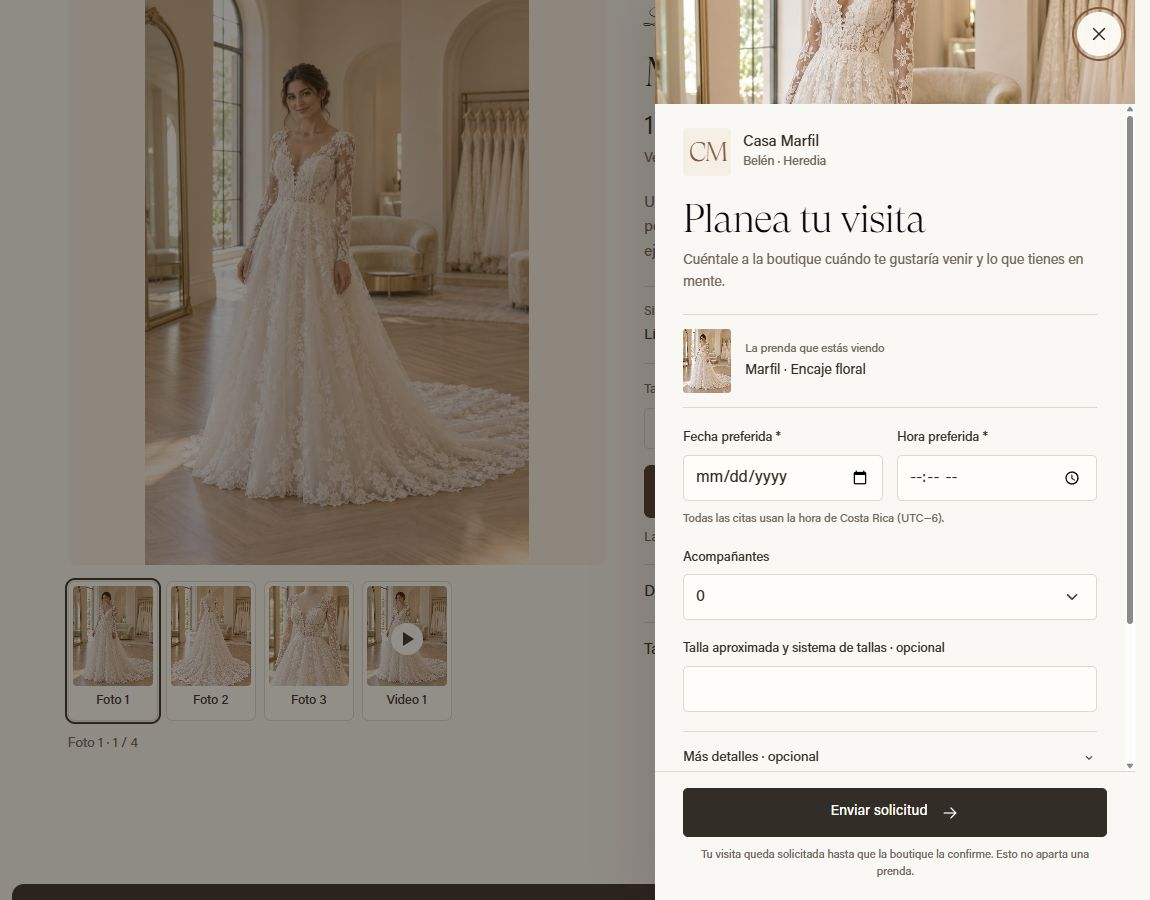
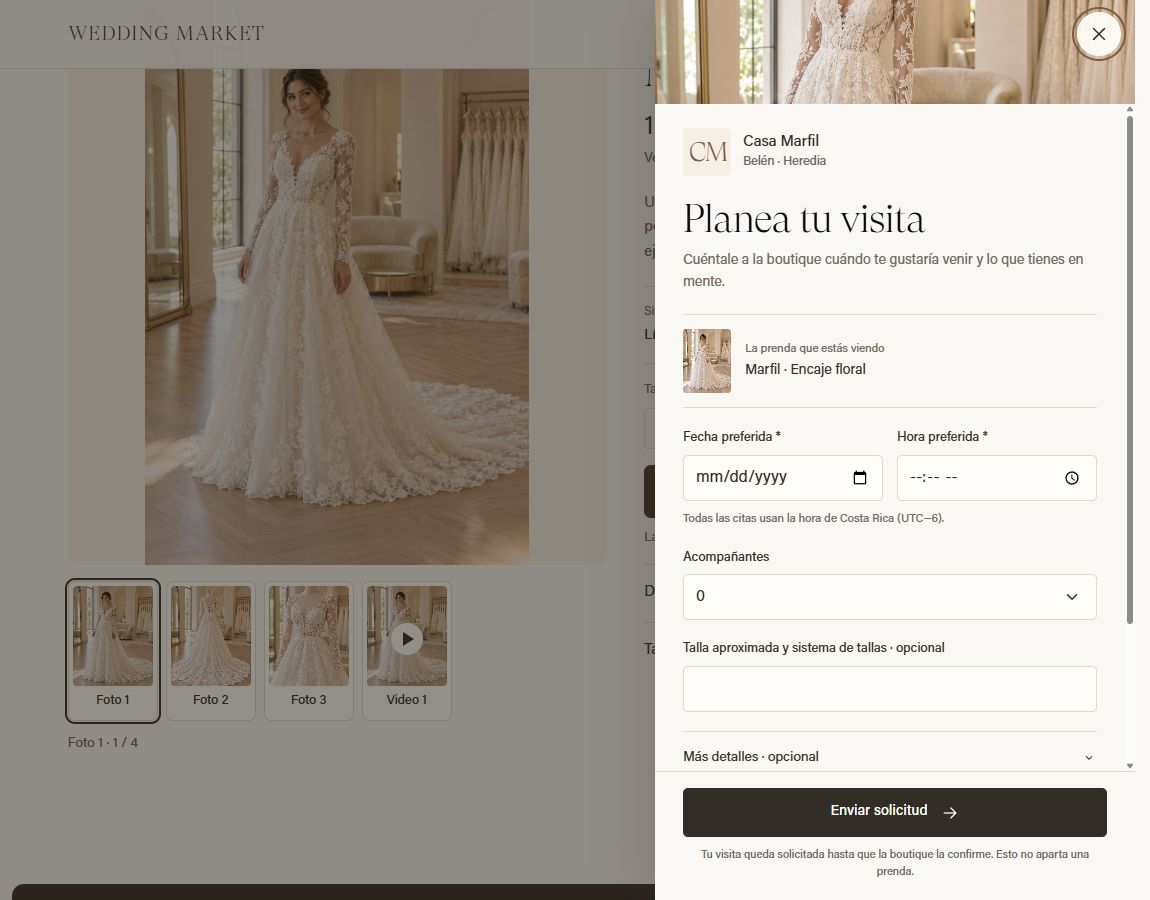
Record verified editorial visit panel release and live screenshots

Changed region(s): [[0.0609, 0.0, 0.487, 0.0933]]

diff --git a/docs/project-context.md b/docs/project-context.md
@@ -6,7 +6,9 @@ The Wedding Market connects couples planning weddings in Costa Rica with wedding
 
 ## Current verified deployment state
 
-Current verified website: **8e64979ffb1cf1796b356f02db2bf57b9f7f984e** (October 29, 2026). The owner selected **A — Atelier editorial** for the boutique directory: split introduction/photo, underlined dress/suit filters, asymmetric photo cards with company logos or initials, and compact single-column phones. Saved outfits and fitting navigation remain. Architecture/types/lint/build, 110 web tests, 48 database tests, migration replay/inspection, all 18 public checks and direct live desktop/phone checks pass. [Selected design, exact receipt and live screenshots](boutique-directory-options-2026-10-29/README.md). Rollback is `/var/www/wedding-market.before-20261029-203801`. Native release remains held.
+Current verified website: **82d76018fba8b306ebf454a6a00f5838032498d4** (October 29, 2026). The owner selected **B — Editorial side panel** for boutique/outfit visit requests: native desktop side modal, mobile bottom sheet, retained underlying page/gallery, company logo/initials, selected garment, optional-details disclosure and persistent action footer. The existing authenticated/idempotent pending-confirmation request workflow remains. Architecture/types/lint/final build, 110 web tests, local bilingual desktop/390px/320×568 checks, all 19 public checks and direct final live checks pass. The initial root-overflow lock disrupted sticky headers; the verified correction locks only the body and reserves the root gutter. Header top stays 0 and closing restores scrolling/focus. [Selected design, exact receipts and live screenshots](visit-panel-2026-10-29/README.md). Rollback is `/var/www/wedding-market.before-20261029-223826`. Native release remains held. Later documentation-only commits do not change this application revision.
+
+Included boutique-directory release: **8e64979ffb1cf1796b356f02db2bf57b9f7f984e** (October 29, 2026). The owner selected **A — Atelier editorial**: split introduction/photo, underlined dress/suit filters, asymmetric photo cards with company logos or initials, and compact single-column phones. Saved outfits and fitting navigation remain. Architecture/types/lint/build, 110 web tests, 48 database tests, migration replay/inspection, all 18 public checks and direct live desktop/phone checks pass. [Selected reference and release evidence](boutique-directory-options-2026-10-29/README.md). Its rollback is `/var/www/wedding-market.before-20261029-203801`.
 
 Included vendor alignment release **30376b0984d2f679d874081abad13c6aac6dcf4a** centers submenu labels in both cover and sticky states, including the mobile More control, and makes the description span the full content width. Architecture/types/lint/build, responsive/live measurements and all 12 public checks pass. [Alignment receipt and validation](vendor-alignment-2026-10-29/README.md). Its rollback is `/var/www/wedding-market.before-20261029-201359`.
 
@@ -14,7 +16,7 @@ Included release **ba689b190e62dd43ee02f196490c1a6c2712847e** supersedes the pri
 
 Migration **202610290014** is applied in the verified WedMarket project: only a published-outfit existence filter before the existing 12-row directory pagination, preserving grants, price/contact masking and private workflows. The migration ledger stores exact source and normalized live function verification passes. Local configured database/API URLs are loopback placeholders, so live migration used the authenticated verified project dashboard. The boutique directory's Costa Rica label is informational; there is no nonfunctional location selector. Clicking the selected collection filter retains the results. No accounts, real boutique records, favorites or appointments were seeded or submitted for these visual checks. Native publication remains held.
 
-The owner chose **B — Editorial side panel** for the boutique/outfit **Plan a visit** action after reviewing [three desktop/mobile images](visit-modal-options-2026-10-29/README.md). The implementation uses a native right-side modal on desktop and bottom sheet on phones, preserving the underlying storefront/outfit page, selected garment/general request context, focus, optional details and existing pending-confirmation/idempotent fitting workflow. Architecture/types/lint/final build, 110 web tests and local bilingual desktop/390px/320×568 checks pass, including keyboard wrap, dismissal, five-outfit limit and a source-verified in-memory sample submission. [Implementation and publication evidence](visit-panel-2026-10-29/README.md). Publication is pending; native release remains held.
+The owner chose **B — Editorial side panel** for the boutique/outfit **Plan a visit** action after reviewing [three desktop/mobile images](visit-modal-options-2026-10-29/README.md). The verified implementation above preserves selected garment/general request context, keyboard wrap, dismissal, the existing five-outfit limit and pending-confirmation/idempotent workflow. A complete submission was tested only in the source-verified in-memory example session on localhost; it reset on reload and created no real request. No submission was made during production browser checks. [Implementation and publication evidence](visit-panel-2026-10-29/README.md). Native release remains held.
 
 Previous boutique cover submenu release: **7d35a4214cd73e113a1290b49aeb975dfa8c38d8** (October 29, 2026). Boutique dress/suit storefronts now include their submenu in the bottom 54px of the opening 100svh hero, matching vendor profiles. Copy clears the submenu by 80px on desktop and 65px on phones; the submenu remains sticky under the main header. Architecture/types/lint/build and local/live responsive checks pass, including 320×568 with wrapped boutique names and EN/ES labels, navigation and the existing fitting action. The selected A/B introduction and all account/data workflows remain. [Release and live screenshots](boutique-cover-menu-2026-10-29/README.md). Rollback is `/var/www/wedding-market.before-20261029-173701`. Native release remains held.
 

diff --git a/docs/visit-panel-2026-10-29/README.md b/docs/visit-panel-2026-10-29/README.md
@@ -14,4 +14,8 @@ Local production-preview checks cover desktop, 390px phones and 320×568 short s
 
 A complete request with date/time, optional details and a selected garment was tested only in the source-verified `ExampleBoutiqueSession` on localhost. It has no fetch, database or browser-storage writes and resets on reload. The panel closed, returned focus to the trigger, kept the current gallery photo and displayed **Pending confirmation**. No real fitting request or production data was created. Measurements are in `local-browser-checks.json`.
 
-The initial release `a5b3c5aa54043aff8434c5267120ce5ab001f06d` completed with 19 public checks passing; its receipt is `deployment-initial.json`, rollback `/var/www/wedding-market.before-20261029-222736`. Live review found that locking root overflow changed sticky-header containment on scrolled pages. The correction locks only the body and retains the root scrollbar gutter. Architecture/types/lint/build and local open/PageDown/close checks pass: header top stays 0, background scroll stays fixed while open and closing restores scrolling. Tool locators center the trigger before activation; settled open/close positions are the relevant comparison. See `local-sticky-checks.json`. Final deployment and live screenshot evidence will follow this correction. Native publication remains held.
+The initial release `a5b3c5aa54043aff8434c5267120ce5ab001f06d` completed with 19 public checks passing; its receipt is `deployment-initial.json`, rollback `/var/www/wedding-market.before-20261029-222736`. Live review found that locking root overflow changed sticky-header containment on scrolled pages. The correction locks only the body and retains the root scrollbar gutter. Architecture/types/lint/build and local open/PageDown/close checks pass: header top stays 0, background scroll stays fixed while open and closing restores scrolling. Tool locators center the trigger before activation; settled open/close positions are the relevant comparison. See `local-sticky-checks.json`.
+
+## Verified publication
+
+Final website **82d76018fba8b306ebf454a6a00f5838032498d4** is deployed, confirmed by `deployment-success.json` and a successful inactive gateway job. Rollback is `/var/www/wedding-market.before-20261029-223826`. All **19 public checks** pass. Direct final live checks at 1150×900, 390×844 and 320×568 confirm the modal/sheet, fixed footer, date visibility on the short phone, loaded images, selected-outfit prefill, keyboard containment, header at top 0, no overflow/errors and restored scrolling after dismissal. See `live-browser-checks.json`; actual final screenshots are `live-desktop.jpg` and `live-mobile.jpg`. Production verification opened/closed forms without submitting. No native release, real booking or production test request occurred.
